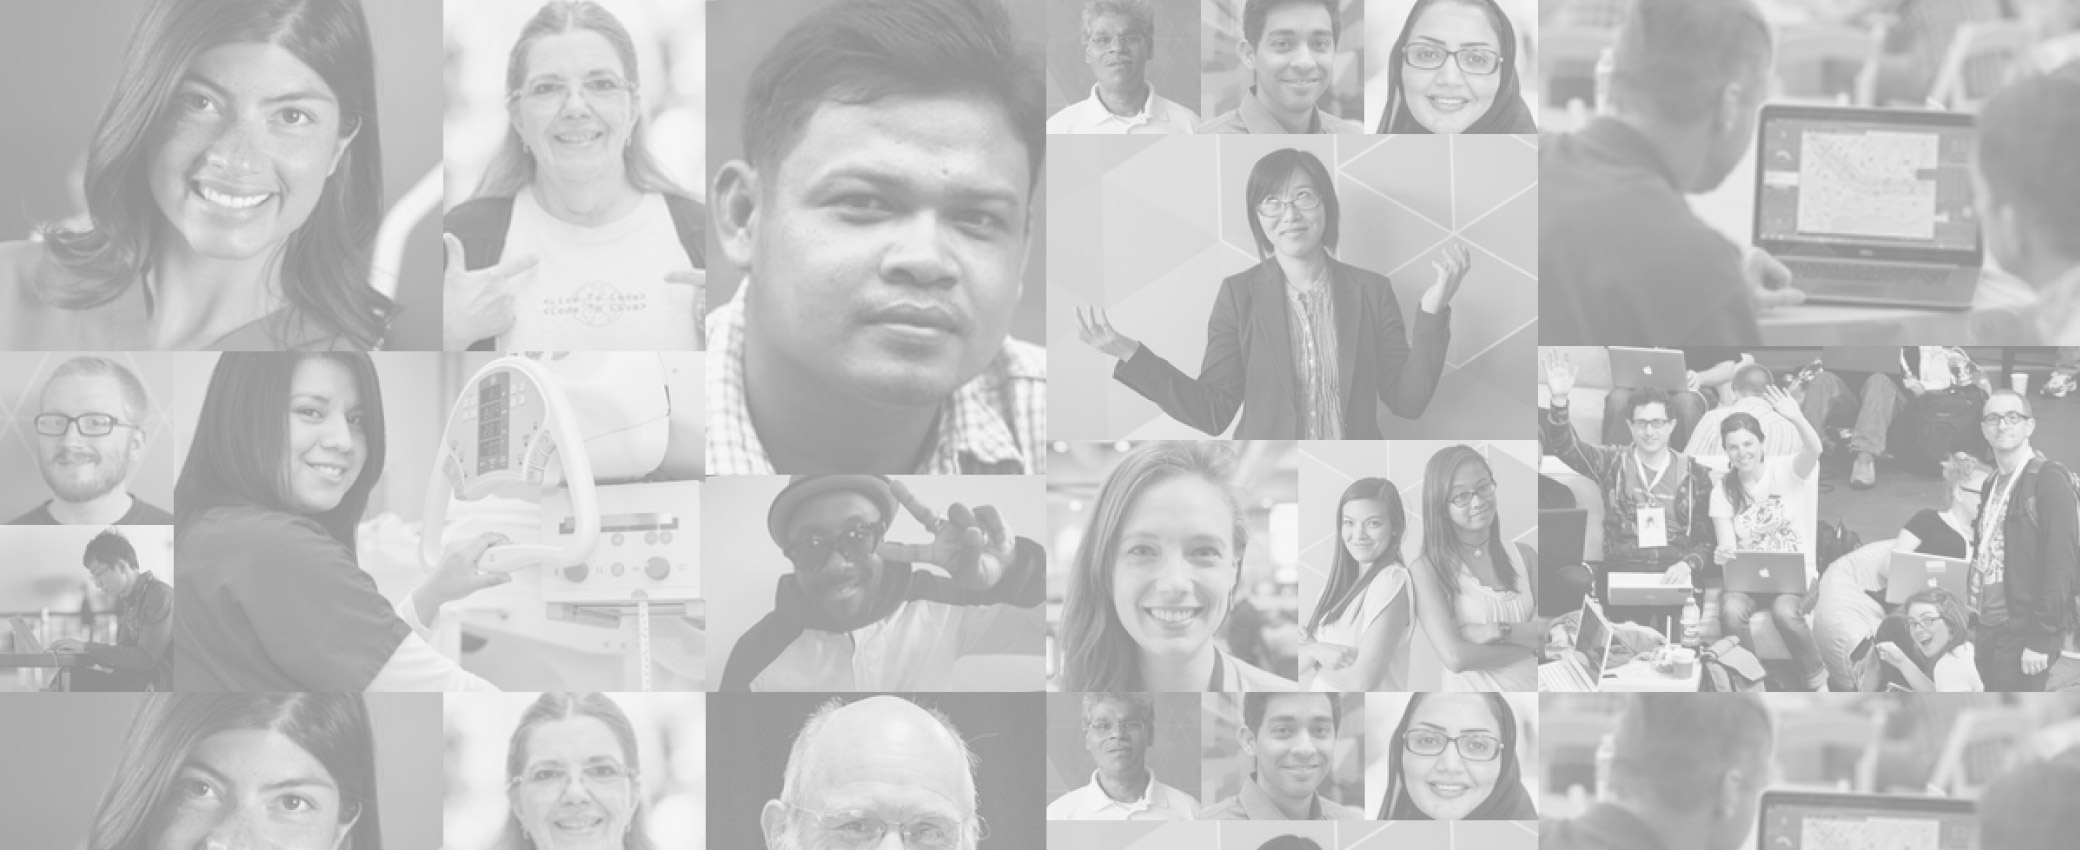
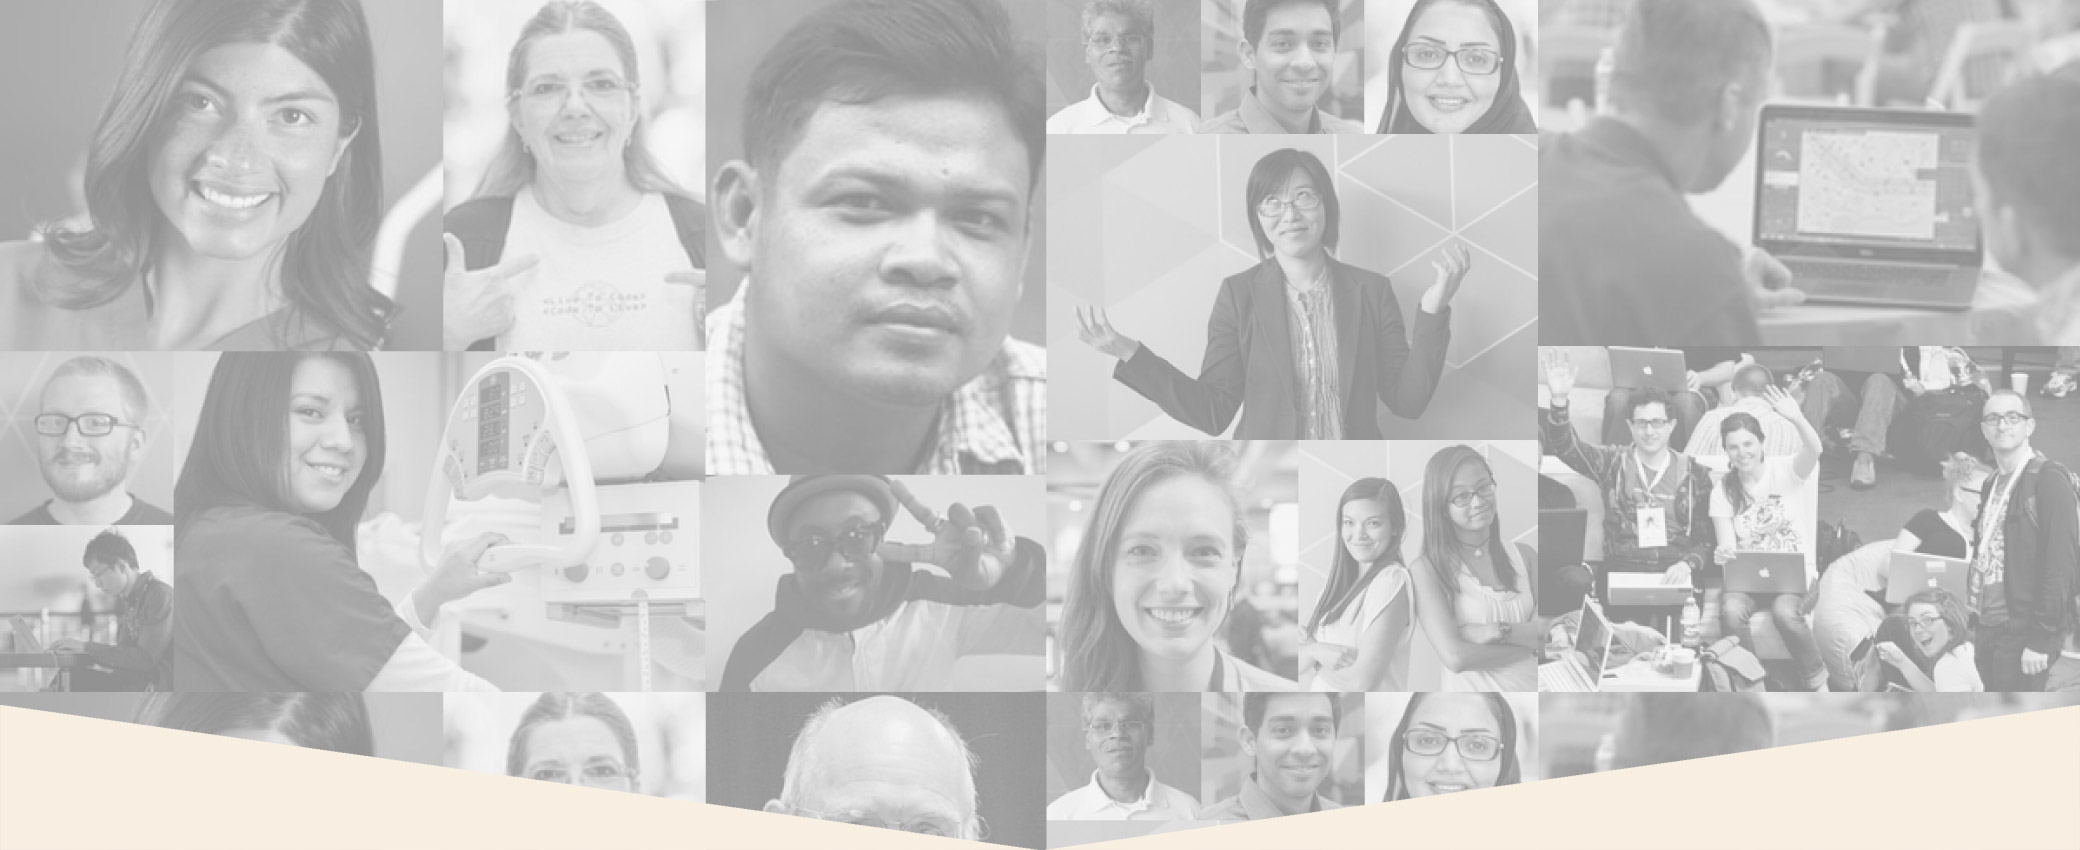
Squash Firefox (and other) bugs

Changed region(s): [[0.0, 0.8259, 1.0, 1.0]]

diff --git a/app/assets/stylesheets/modules/_hero.css.scss b/app/assets/stylesheets/modules/_hero.css.scss
@@ -3,9 +3,8 @@
   margin-bottom: 30px;
   padding: 22.5% 12.5% 5.5%;
   text-align: center;
-  background: image-url("bg_hero.jpg") center center;
+  background: image-url("bg_hero.jpg") center bottom;
   background-size: cover;
-  @extend %mask-section-bottom;
 
   h1 {
     position: relative;
@@ -15,6 +14,27 @@
     line-height: 1.2;
     color: #fff;
     background: $blue;
+
+    &::before,
+    &::after {
+      content: "";
+      width: 30px;
+      height: 100%;
+      top: 0;
+      position: absolute;
+      background: inline("bg_banner_left.png") no-repeat;
+      background-size: auto 100%;
+    }
+
+    &::before {
+      left: -30px;
+      background-position: right;
+    }
+
+    &::after {
+      right: -30px;
+      background-image: inline("bg_banner_right.png");
+    }
   }
 
   .actions .button:first-child {
@@ -28,5 +48,10 @@
 
   @include max-width(500px) {
     padding: 30px 30px 10px;
+
+    h1 {
+      margin-right: 10px;
+      margin-left: 10px;
+    }
   }
 }

diff --git a/app/assets/stylesheets/utilities/_placeholders.css.scss b/app/assets/stylesheets/utilities/_placeholders.css.scss
@@ -11,10 +11,3 @@
     clear: both;
   }
 }
-
-%mask-section-bottom {
-  mask: inline("mask_section_bottom.png") no-repeat;
-  mask-repeat: no-repeat;
-  mask-size: 100%;
-  mask-position: bottom center;
-}
